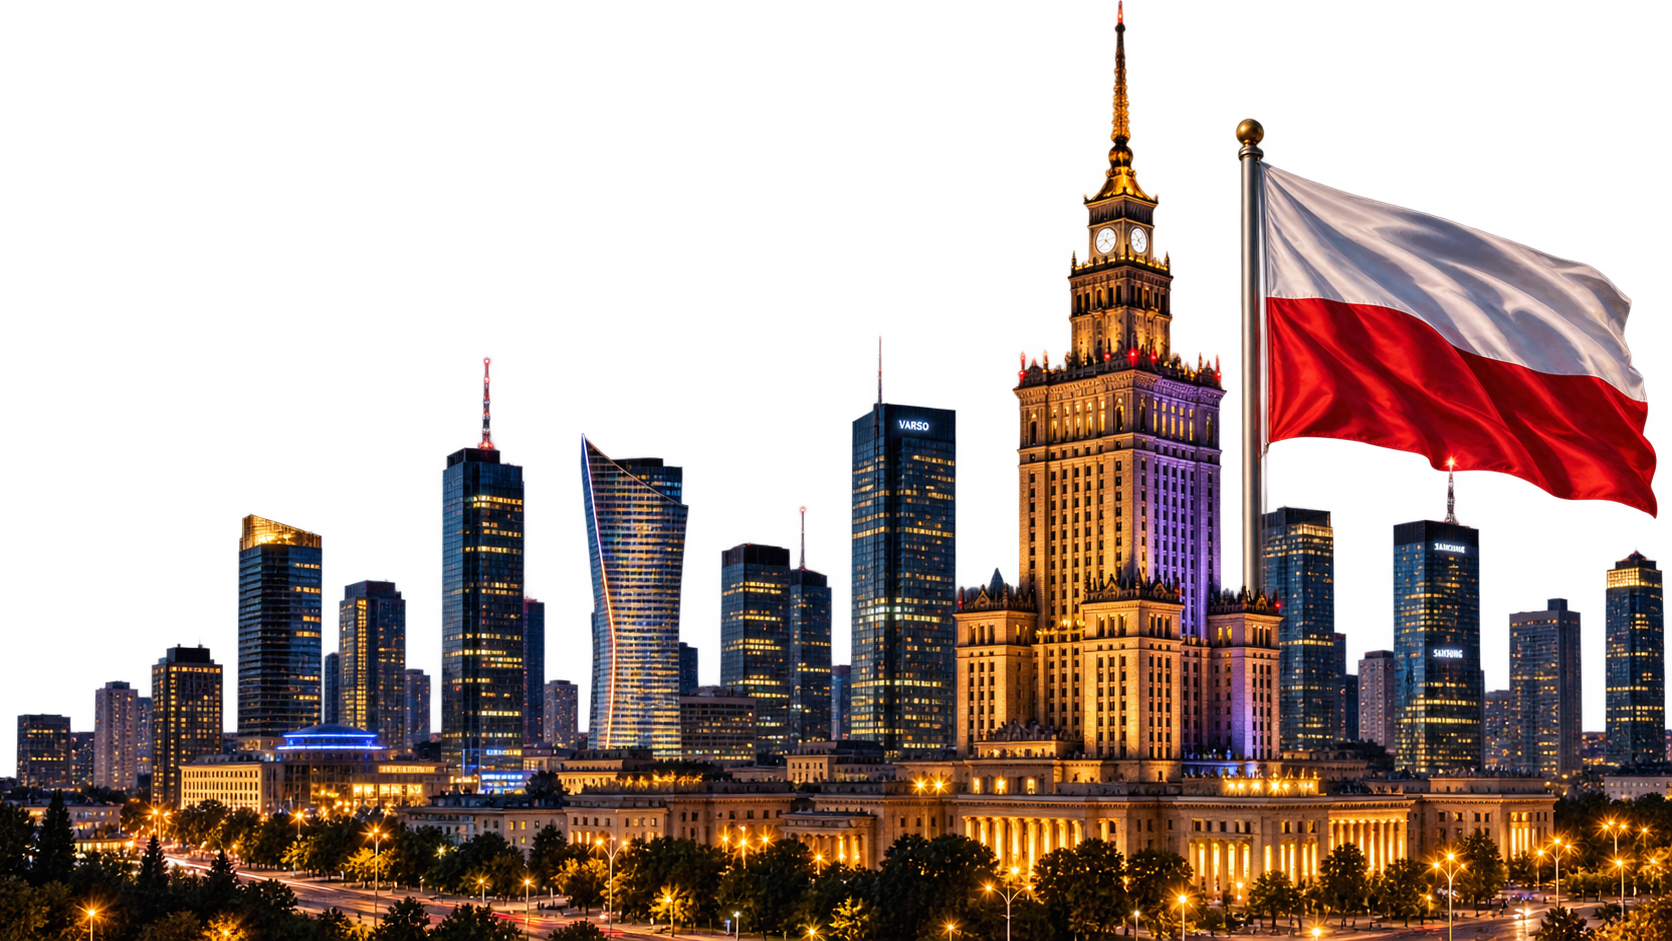
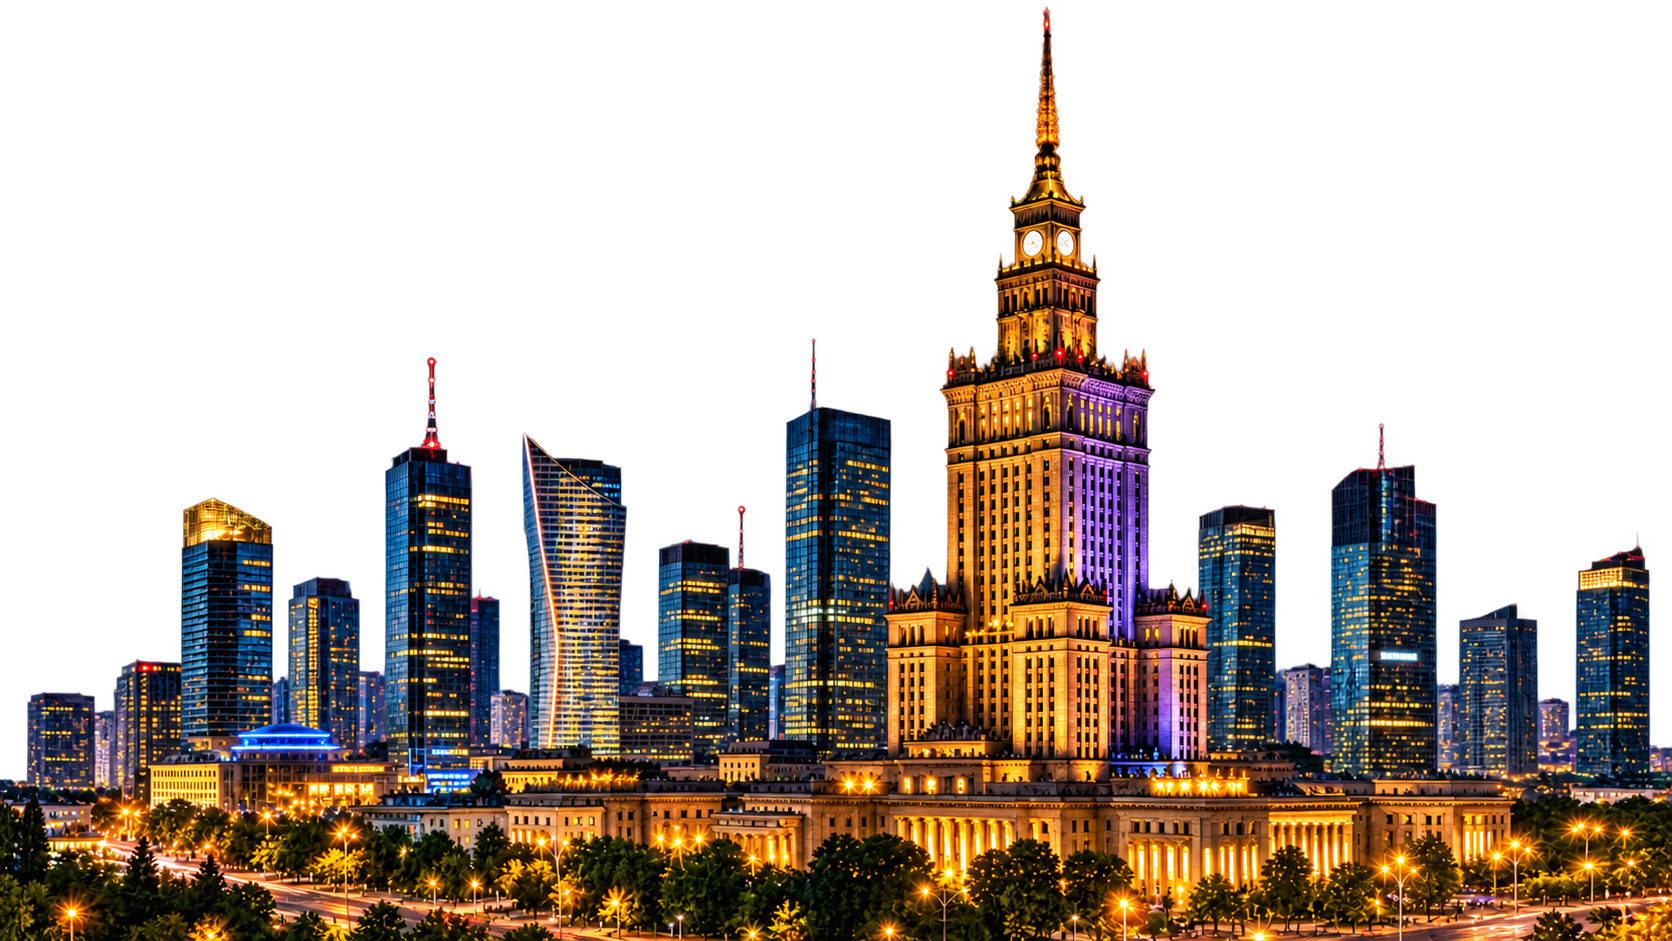
SWAP LIX: международные переводы, GBP, мировые города

diff --git a/src/App.js b/src/App.js
@@ -1,4 +1,4 @@
-import { useCallback, useEffect, useMemo, useReducer, useRef, useState } from 'react';
+import { Fragment, useCallback, useEffect, useMemo, useReducer, useRef, useState } from 'react';
 import './App.css';
 import {
   ShieldCheck as IconShield,
@@ -14,7 +14,7 @@ import {
   ArrowUp as IconArrowUp,
 } from 'lucide-react';
 import { SiTether as CoinTether } from 'react-icons/si';
-import { FaDollarSign as CoinDollar, FaEuroSign as CoinEuro, FaMoneyBillWave as CoinCash } from 'react-icons/fa';
+import { FaDollarSign as CoinDollar, FaEuroSign as CoinEuro, FaPoundSign as CoinPound } from 'react-icons/fa';
 
 const CONTACT_LINK = "https://t.me/+2ktARr9AH1Q4YjI0";
 
@@ -24,7 +24,7 @@ const CURRENCY_MAP = {
   USD: { badge: 'usd', Glyph: CoinDollar },
   EUR: { badge: 'eur', Glyph: CoinEuro },
   USDT: { badge: 'usdt', Glyph: CoinTether },
-  PLN: { badge: 'pln', Glyph: CoinCash },
+  GBP: { badge: 'gbp', Glyph: CoinPound },
 };
 
 const TRUST_POINTS = [
@@ -34,50 +34,50 @@ const TRUST_POINTS = [
 ];
 
 const WHY_ITEMS = [
-  { Icon: IconShield, headline: 'Лучшие рейтинги', copy: 'Проверенный обменный пункт с безупречной репутацией' },
-  { Icon: IconMap, headline: 'Местный опыт', copy: 'Работаем в Польше, знаем рынок и потребности клиентов' },
-  { Icon: IconLock, headline: 'Безопасность превыше всего', copy: 'Все сделки только при личной встрече' },
+  { Icon: IconShield, headline: 'Лучшие рейтинги', copy: 'Проверенный сервис с безупречной репутацией' },
+  { Icon: IconGlobe, headline: 'Международный опыт', copy: 'Работаем по всему миру, знаем рынок и потребности клиентов' },
+  { Icon: IconLock, headline: 'Безопасность превыше всего', copy: 'Все операции проходят с максимальной защитой' },
   { Icon: IconShield, headline: 'Максимальная защита', copy: 'Гарантия конфиденциальности и анонимности' },
 ];
 
-const CITY_LIST = ['Варшава', 'Вроцлав', 'Гданьск', 'Гдыня', 'Краков', 'Лодзь', 'Познань', 'Щецин'];
+const CITY_LIST = ['Дубай', 'Стамбул', 'Берлин', 'Лондон', 'Варшава', 'Прага', 'Тбилиси', 'Ереван'];
 
 const CONVERSION_LIST = [
-  { src: 'USDT', dst: 'PLN', srcName: 'Tether', dstName: 'Польские злотые' },
   { src: 'USDT', dst: 'USD', srcName: 'Tether', dstName: 'Доллары' },
   { src: 'USDT', dst: 'EUR', srcName: 'Tether', dstName: 'Евро' },
-  { src: 'PLN', dst: 'USDT', srcName: 'Польские злотые', dstName: 'Tether' },
+  { src: 'USDT', dst: 'GBP', srcName: 'Tether', dstName: 'Фунты' },
   { src: 'USD', dst: 'USDT', srcName: 'Доллары', dstName: 'Tether' },
   { src: 'EUR', dst: 'USDT', srcName: 'Евро', dstName: 'Tether' },
+  { src: 'GBP', dst: 'USDT', srcName: 'Фунты', dstName: 'Tether' },
 ];
 
 const PROCESS_STAGES = [
   { idx: 1, Icon: IconSend, name: 'Связь', note: 'Напишите нам в Telegram' },
-  { idx: 2, Icon: IconClock, name: 'Согласование', note: 'Курс, сумма, место, время' },
-  { idx: 3, Icon: IconMap, name: 'Встреча', note: 'Личный визит в офис' },
-  { idx: 4, Icon: IconShield, name: 'Обмен', note: 'Физический обмен на месте' },
+  { idx: 2, Icon: IconClock, name: 'Согласование', note: 'Курс, сумма, способ перевода' },
+  { idx: 3, Icon: IconGlobe, name: 'Перевод', note: 'Отправка в любую точку мира' },
+  { idx: 4, Icon: IconShield, name: 'Получение', note: 'Средства зачислены получателю' },
 ];
 
 const ADVANTAGE_ITEMS = [
-  { Icon: IconLock, headline: 'Безопасность', copy: 'Только личные встречи' },
-  { Icon: IconClock, headline: 'Автоматизация', copy: 'Быстрое согласование' },
+  { Icon: IconLock, headline: 'Безопасность', copy: 'Защищённые транзакции' },
+  { Icon: IconClock, headline: 'Автоматизация', copy: 'Быстрая обработка' },
   { Icon: IconShield, headline: 'Выгода', copy: 'Лучшие курсы' },
-  { Icon: IconMap, headline: 'Гибкость', copy: 'Под ваш график' },
+  { Icon: IconGlobe, headline: 'Гибкость', copy: 'Переводы по всему миру' },
   { Icon: IconShield, headline: 'Комфорт', copy: 'Без бюрократии' },
   { Icon: IconShield, headline: 'Доверие', copy: 'Проверенная репутация' },
 ];
 
 const QA_LIST = [
-  { q: 'Почему стоит выбрать SWAP LIX?', a: 'Мы предлагаем физический обмен криптовалют с личной встречей. Это гарантирует безопасность, конфиденциальность и лучшие курсы.' },
-  { q: 'Какие валюты вы обмениваете?', a: 'USDT на польские злотые, доллары и евро, а также обратный обмен.' },
-  { q: 'Какие способы оплаты?', a: 'Наличные при личной встрече. Мы не работаем с картами и онлайн-переводами.' },
-  { q: 'Как происходит наличный обмен?', a: 'Вы связываетесь с менеджером, согласовываете детали и приезжаете в офис. Обмен производится на месте.' },
+  { q: 'Почему стоит выбрать SWAP LIX?', a: 'Мы предлагаем международные переводы и обмен криптовалют. Это гарантирует безопасность, конфиденциальность и лучшие курсы.' },
+  { q: 'Какие валюты вы обмениваете?', a: 'USDT на доллары, евро и фунты, а также обратный обмен.' },
+  { q: 'Какие способы перевода?', a: 'Работаем с банковскими переводами, криптовалютой и другими удобными способами. Детали согласовываем индивидуально.' },
+  { q: 'Как проходит перевод?', a: 'Вы связываетесь с менеджером, согласовываете детали, и мы отправляем средства в любую точку мира.' },
   { q: 'Какой курс обмена?', a: 'Актуальный курс узнавайте у менеджера в Telegram. Курс фиксируется до сделки.' },
   { q: 'Какие комиссии?', a: 'Минимальные. Точную комиссию согласовываем до сделки, без скрытых платежей.' },
   { q: 'Нужна ли верификация KYC?', a: 'Нет. Мы не требуем верификацию или регистрацию.' },
-  { q: 'Вы работаете 24/7?', a: 'Служба поддержки 24/7. Обмен по предварительной записи ежедневно с 09:00 до 20:00.' },
+  { q: 'Вы работаете 24/7?', a: 'Служба поддержки 24/7. Переводы обрабатываются ежедневно с 09:00 до 20:00.' },
   { q: 'Есть ли реферальная программа?', a: 'На данный момент нет. Но мы ценим постоянных клиентов.' },
-  { q: 'Можно ли обменять крупные суммы?', a: 'Да. Детали крупных сумм обсуждаются с менеджером индивидуально.' },
+  { q: 'Можно ли перевести крупные суммы?', a: 'Да. Детали крупных сумм обсуждаются с менеджером индивидуально.' },
 ];
 
 const NAV_MENU = [
@@ -89,8 +89,8 @@ const NAV_MENU = [
 const DROPDOWN_USEFUL = [
   { href: '#why', text: 'О Нас' },
   { href: '#faq', text: 'FAQ' },
-  { href: '#locations', text: 'Города' },
-  { href: '#how', text: 'Как проходит обмен' },
+  { href: '#locations', text: 'География' },
+  { href: '#how', text: 'Как проходит перевод' },
 ];
 
 const DROPDOWN_BUSINESS = [
@@ -103,15 +103,15 @@ const FOOTER_CRYPTO = [
   { href: '#directions', text: 'Направления обменов' },
   { href: '#directions', text: 'Курсы криптовалют' },
   { href: '#directions', text: 'Обмен USDT' },
-  { href: '#directions', text: 'Обмен на PLN' },
   { href: '#directions', text: 'Обмен на USD' },
+  { href: '#directions', text: 'Обмен на EUR' },
 ];
 
 const FOOTER_USEFUL = [
   { href: '#why', text: 'О Нас' },
   { href: '#faq', text: 'FAQ' },
-  { href: '#locations', text: 'Города' },
-  { href: '#how', text: 'Как проходит обмен' },
+  { href: '#locations', text: 'География' },
+  { href: '#how', text: 'Как проходит перевод' },
 ];
 
 /* ---------- утилиты ---------- */
@@ -274,7 +274,7 @@ function TopBar({ isScrolled }) {
         </nav>
 
         <div className="header-right">
-          <button className="lang-btn"><IconGlobe className="lang-icon" /> PL</button>
+          <button className="lang-btn"><IconGlobe className="lang-icon" /> EN</button>
           <a href={CONTACT_LINK} target="_blank" rel="noopener noreferrer" className="header-tg">
             Написать в Telegram <TelegramGlyph className="header-tg-icon" />
           </a>
@@ -329,12 +329,12 @@ function HeroBanner() {
             ))}
           </div>
           <h1 className="hero-title">
-            Обмен криптовалюты –<br />
+            Международные переводы –<br />
             <span className="hero-accent">быстро, выгодно и легко</span>
           </h1>
           <p className="hero-desc">
-            SWAP LIX — физический обмен криптовалют в Польше.
-            Назначаем время и место встречи. Вы приходите и совершаете обмен лично.
+            SWAP LIX — международные переводы и обмен криптовалют по всему миру.
+            Отправляйте средства в любую точку мира быстро и безопасно.
           </p>
           <a href={CONTACT_LINK} target="_blank" rel="noopener noreferrer" className="btn-primary pulse">
             <TelegramGlyph className="btn-icon" /> НАПИСАТЬ МЕНЕДЖЕРУ
@@ -351,7 +351,7 @@ function HeroBanner() {
 
 function StatsBar() {
   const items = [
-    { value: '300+', label: 'Обменных операций в день' },
+    { value: '300+', label: 'Переводов в день' },
     { value: '14', label: 'Лет на рынке' },
     { value: '20000+', label: 'Довольных клиентов' },
     { value: '50+', label: 'Поддерживаемых валют' },
@@ -374,8 +374,8 @@ function WhySection() {
   return (
     <section className="why" id="why">
       <div className="section-inner">
-        <div className="eyebrow">ТОРГУЙТЕ ВЫГОДНО И БЕЗОПАСНО</div>
-        <h2 className="section-title">Почему SWAP LIX – это №1 криптообменник</h2>
+        <div className="eyebrow">ПЕРЕВОДИТЕ ВЫГОДНО И БЕЗОПАСНО</div>
+        <h2 className="section-title">Почему SWAP LIX – это №1 сервис переводов</h2>
         <div className="why-grid">
           {WHY_ITEMS.map(({ Icon, headline, copy }) => (
             <div className="why-card" key={headline}>
@@ -395,7 +395,7 @@ function LocationsSection() {
     <section className="locations" id="locations">
       <div className="section-inner">
         <div className="eyebrow">ПРОВЕРЬТЕ ДОСТУПНОСТЬ</div>
-        <h2 className="section-title">Доступно в городах Польши</h2>
+        <h2 className="section-title">Доступно по всему миру</h2>
         <div className="locations-grid">
           {CITY_LIST.map((city) => (
             <div className="location-card" key={city}>
@@ -418,8 +418,8 @@ function CashBanner() {
             <div className="cash-icon-wrap"><IconShield className="cash-icon" /></div>
             <div>
               <div className="eyebrow">КОНТРОЛИРУЙТЕ СВОИ ФИНАНСЫ</div>
-              <h2 className="cash-title">Обналичивайте USDT в удобном для вас месте</h2>
-              <p className="cash-desc">Легко конвертируйте криптовалюту в реальные деньги при личной встрече.</p>
+              <h2 className="cash-title">Отправляйте USDT в любую точку мира</h2>
+              <p className="cash-desc">Легко конвертируйте криптовалюту и отправляйте средства получателю быстро и безопасно.</p>
             </div>
           </div>
           <div className="cash-right">
@@ -427,7 +427,7 @@ function CashBanner() {
               <CurrencyBadge code="USDT" />
               <CurrencyBadge code="USD" />
               <CurrencyBadge code="EUR" />
-              <CurrencyBadge code="PLN" />
+              <CurrencyBadge code="GBP" />
             </div>
             <a href={CONTACT_LINK} target="_blank" rel="noopener noreferrer" className="btn-primary">
               <TelegramGlyph className="btn-icon" /> Связаться с менеджером
@@ -460,22 +460,26 @@ function ProcessSection() {
     <section className="how" id="how">
       <div className="section-inner">
         <div className="eyebrow">ПРОСТОЙ ПРОЦЕСС</div>
-        <h2 className="section-title">Как проходит обмен</h2>
+        <h2 className="section-title">Как проходит перевод</h2>
         <div className="how-timeline">
           {PROCESS_STAGES.map(({ idx, Icon, name, note }, position) => (
-            <FadeBlock key={idx}>
+            <Fragment key={idx}>
               {position > 0 && (
-                <div className="how-connector"><IconChevronRight className="connector-arrow" /></div>
+                <div className="how-connector">
+                  <IconChevronRight className="connector-arrow" />
+                </div>
               )}
               <div className="how-step-card">
                 <div className="how-step-header">
                   <div className="how-num">{idx}</div>
-                  <div className="how-step-icon"><Icon className="how-icon-svg" /></div>
+                  <div className="how-step-icon">
+                    <Icon className="how-icon-svg" />
+                  </div>
                 </div>
                 <h3>{name}</h3>
                 <p>{note}</p>
               </div>
-            </FadeBlock>
+            </Fragment>
           ))}
         </div>
       </div>
@@ -488,7 +492,7 @@ function BenefitsSection() {
     <section className="benefits">
       <div className="section-inner">
         <div className="eyebrow">ПОЧЕМУ МЫ</div>
-        <h2 className="section-title">Лучший обменник криптовалют с минимальными комиссиями!</h2>
+        <h2 className="section-title">Лучший сервис переводов с минимальными комиссиями!</h2>
         <div className="benefits-grid">
           {ADVANTAGE_ITEMS.map(({ Icon, headline, copy }) => (
             <div className="benefit-card" key={headline}>
@@ -549,7 +553,7 @@ function FinalCall() {
   return (
     <section className="cta">
       <div className="cta-inner">
-        <h2>Готовы к обмену?</h2>
+        <h2>Готовы к переводу?</h2>
         <p>Напишите нам в Telegram и получите лучший курс прямо сейчас!</p>
         <a href={CONTACT_LINK} target="_blank" rel="noopener noreferrer" className="btn-primary pulse">
           <TelegramGlyph className="btn-icon" /> НАПИСАТЬ МЕНЕДЖЕРУ
@@ -565,7 +569,7 @@ function SiteFooter() {
       <div className="footer-inner">
         <div className="footer-col footer-brand">
           <img src="/logo.png" alt="SWAP LIX" className="footer-logo" />
-          <p>Физический обмен криптовалют в Польше. Безопасно, быстро, конфиденциально.</p>
+          <p>Международные переводы и обмен криптовалют. Безопасно, быстро, конфиденциально.</p>
         </div>
 
         <div className="footer-col">
@@ -585,7 +589,7 @@ function SiteFooter() {
         </div>
       </div>
       <div className="footer-bottom">
-        <span>© 2024 SWAP LIX. Физический обмен криптовалют в Польше.</span>
+        <span>© 2024 SWAP LIX. Международные переводы и обмен криптовалют.</span>
       </div>
     </footer>
   );

diff --git a/src/App.css b/src/App.css
@@ -599,8 +599,8 @@ body {
   background: linear-gradient(135deg, #2fbf8f 0%, #26A17B 50%, #1a7a5c 100%);
 }
 
-.coin-icon.pln {
-  background: linear-gradient(135deg, #e05a5a 0%, #D32F2F 50%, #a51f1f 100%);
+.coin-icon.gbp {
+  background: linear-gradient(135deg, #9b7ede 0%, #6f42c1 50%, #4a2d7a 100%);
 }
 
 .locations {
@@ -850,6 +850,7 @@ body {
 
 .how-step-card {
   flex: 1;
+  min-width: 0;
   background: linear-gradient(180deg, #111816 0%, #0d1211 100%);
   border: 1px solid rgba(166,255,0,0.15);
   border-radius: 18px;
@@ -858,6 +859,9 @@ body {
   position: relative;
   transition: all 0.3s ease;
   overflow: hidden;
+  display: flex;
+  flex-direction: column;
+  justify-content: flex-start;
 }
 
 .how-step-card::before {
